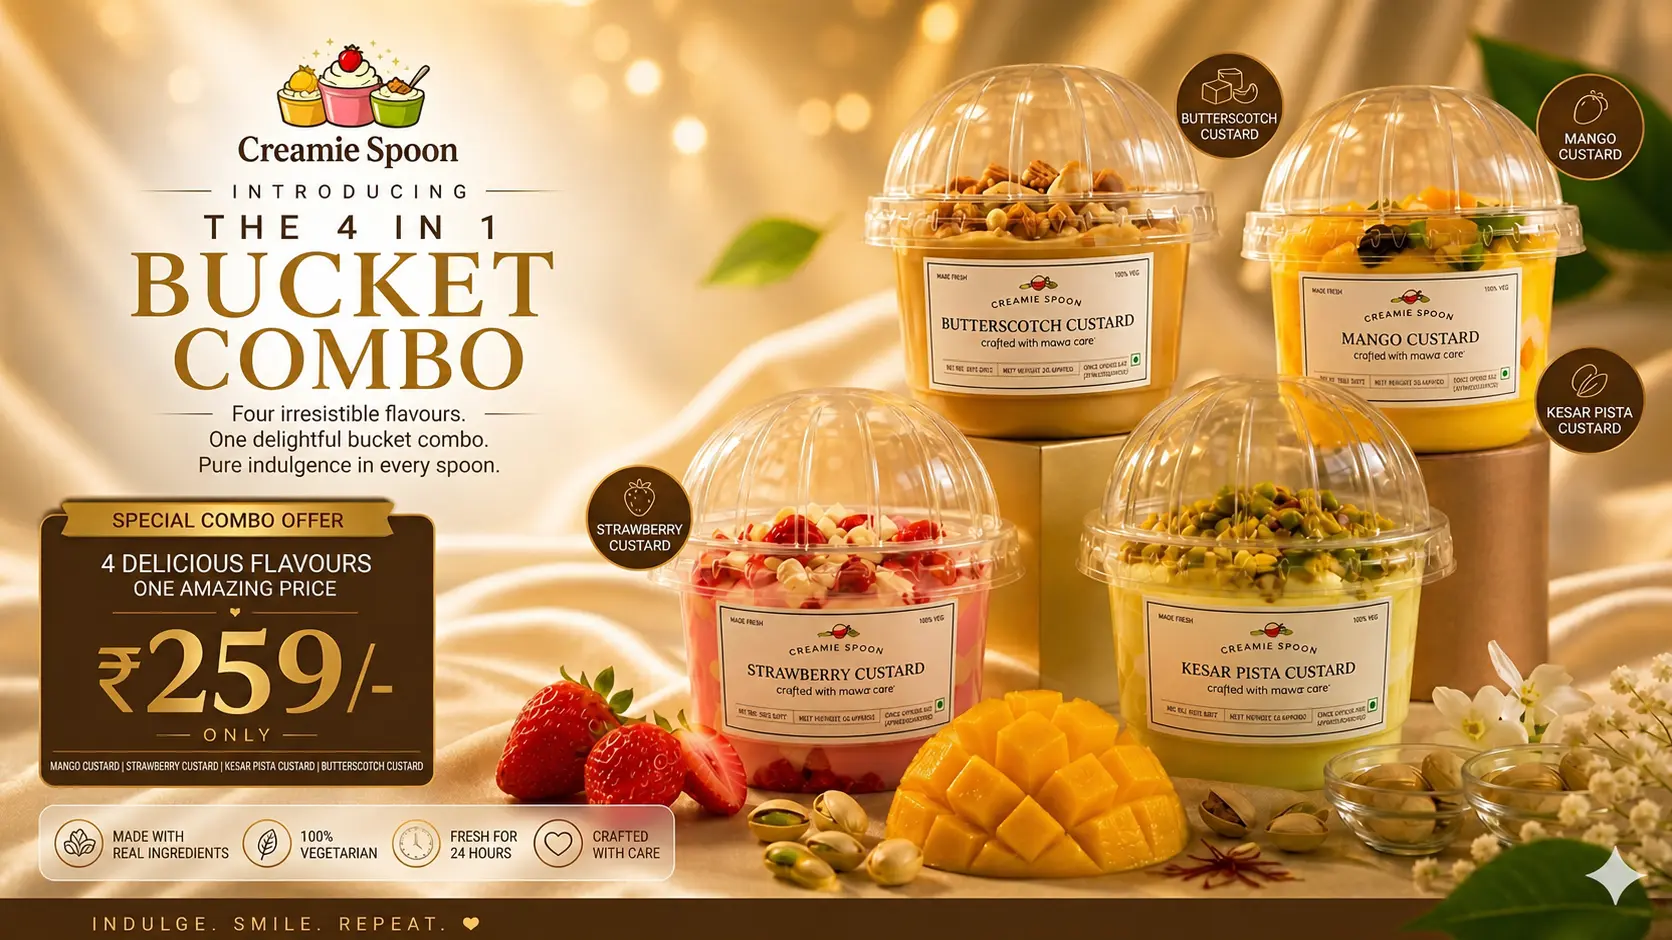
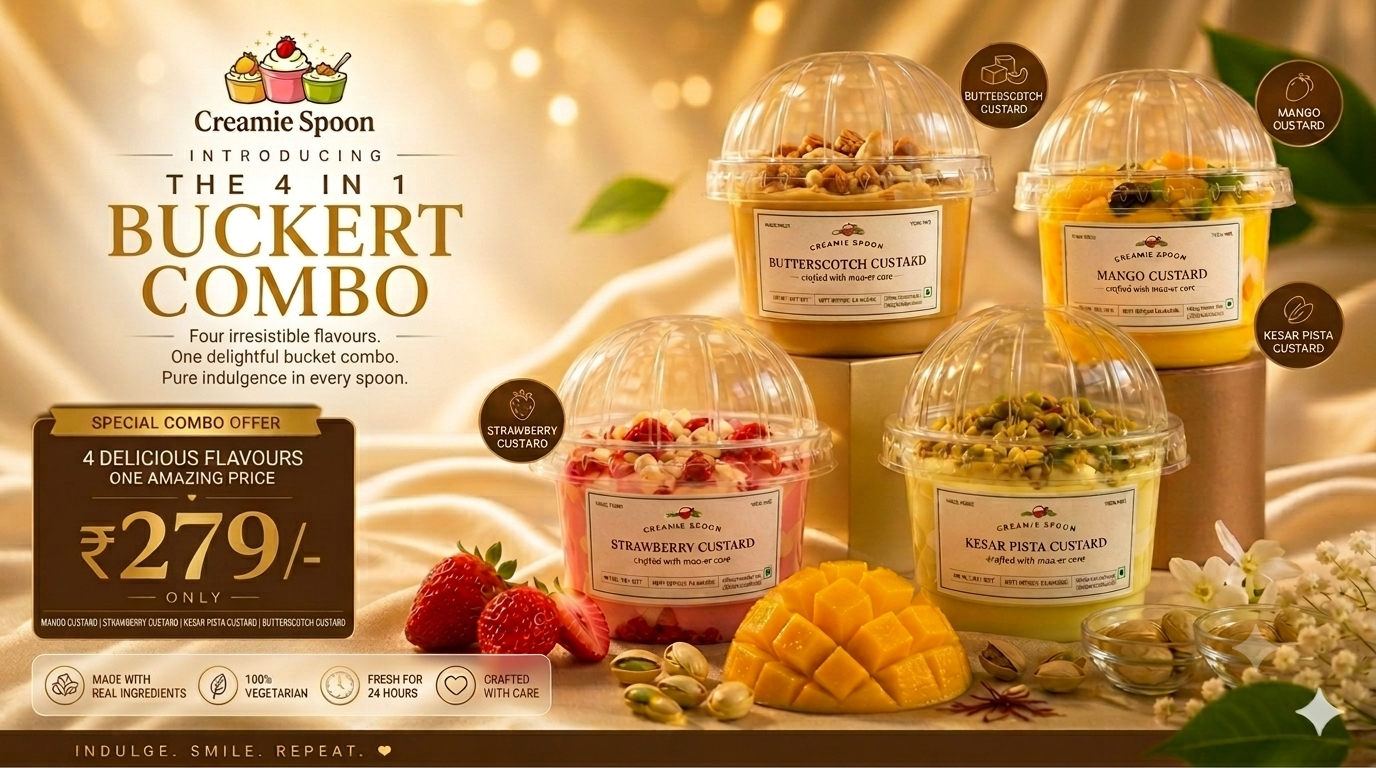
update menu prices and discounts for combo packs

diff --git a/script.js b/script.js
@@ -28,18 +28,18 @@ const menuData = [
   {
     name: "The Ultimate Combo Pack",
     desc: "Two Mango Custards paired with Strawberry and Kesar Pista, perfectly balanced blend of fruity, creamy & royal indulgence.",
-    price: 249,
+    price: 269,
     img: "assets/combo_pak.webp",
     highlight: true,
-    discount: "Save ₹51"
+    discount: "Save ₹21"
   },
   {
     name: "The 4 in 1 Bucket Combo Pack",
     desc: "Can’t pick one? Get all four! A curated blend of Mango, Kesar Pista, Butterscotch & Strawberry Crafted for the perfect balance of flavor and indulgence.",
-    price: 259,
+    price: 279,
     img: "assets/4_in_1_combo_pack.webp",
     highlight: true,
-    discount: "Save ₹41"
+    discount: "Save ₹21"
   }
 ];
 
